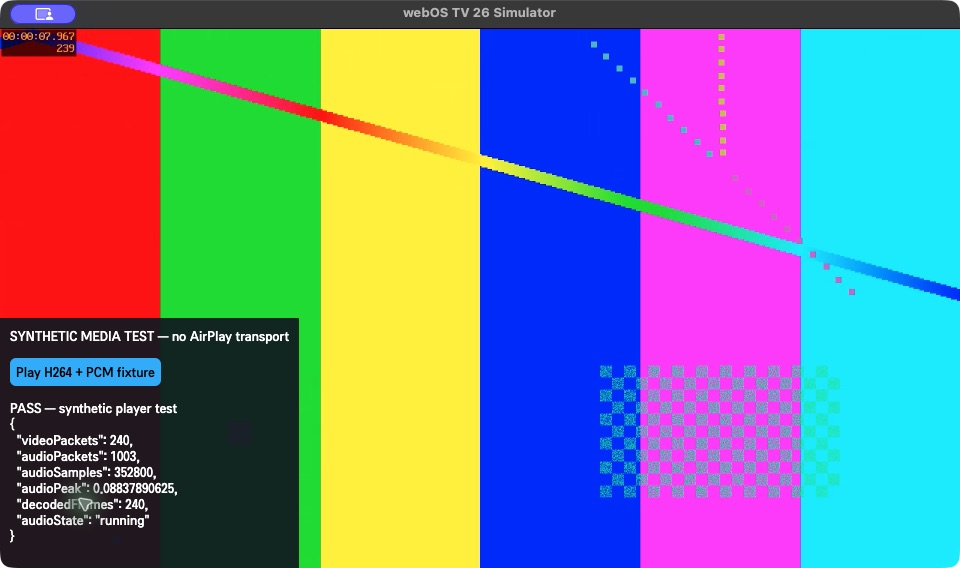
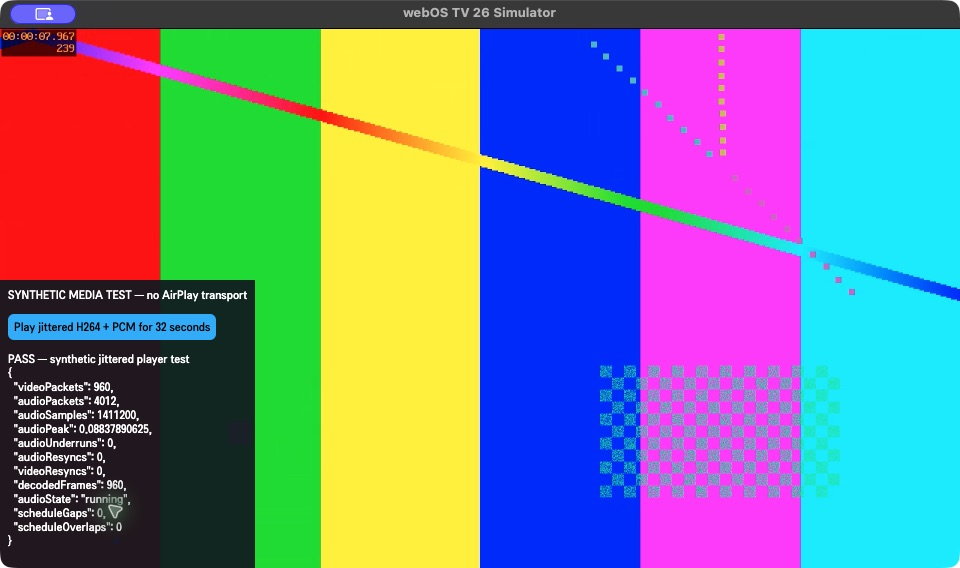
Stabilize webOS audio scheduling and live video recovery

Changed region(s): [[0.0, 0.4789, 0.3125, 1.0]]

diff --git a/tv-web/src/webos-media.js b/tv-web/src/webos-media.js
@@ -4,10 +4,11 @@ export class WebosMedia {
   constructor({video,scope=window,onEvent=()=>{},createMuxer=options=>new JMuxer(options)}){
     this.video=video;this.scope=scope;this.onEvent=onEvent;this.run=0;this.sources=new Set();this.audioQueue=[];this.stats={videoPackets:0,audioPackets:0,audioSamples:0,audioPeak:0};
     this.createMuxer=createMuxer;this.videoQueue=[];this.videoQueueBytes=0;this.mseReady=false;this.mediaEpoch=0;
-    this.activate=()=>{try{if(!this.audio)this.audio=new (scope.AudioContext||scope.webkitAudioContext)({sampleRate:44100});this.audio.resume().catch(()=>{});}catch{}};
+    this.activate=()=>{try{if(!this.audio)this.audio=new (scope.AudioContext||scope.webkitAudioContext)({sampleRate:44100});this.audio.resume().then(()=>this.drainAudio()).catch(()=>{});}catch{}};
     scope.addEventListener('pointerdown',this.activate);scope.addEventListener('keydown',this.activate);
     this.video.muted=true;this.video.autoplay=true;
     this.video.addEventListener('playing',()=>{if(!this.run)return;clearTimeout(this.videoStartupTimer);this.videoPlaying=true;this.onEvent({type:'video-start',runId:this.run});this.drainAudio();});
+    this.video.addEventListener('progress',()=>this.catchUpVideo());
     this.video.addEventListener('error',()=>this.fail('H.264 playback failed'));
   }
   async connect(url){
@@ -19,7 +20,7 @@ export class WebosMedia {
       socket.onclose=()=>{if(!opened)reject(new Error('Media connection cancelled'));if(this.socket===socket&&this.run)this.fail('Media service disconnected');};
     });
   }
-  start(run){this.reset();this.failed=false;this.run=run;this.stats={videoPackets:0,audioPackets:0,audioSamples:0,audioPeak:0};}
+  start(run){this.reset();this.failed=false;this.run=run;this.stats={videoPackets:0,audioPackets:0,audioSamples:0,audioPeak:0,audioUnderruns:0,audioResyncs:0,videoResyncs:0};}
   packet(data){
     if(!(data instanceof ArrayBuffer)||data.byteLength<32||data.byteLength>8*1024*1024+32)return;
     const view=new DataView(data),run=view.getUint32(4,true),pts=view.getFloat64(8,true);if(run!==this.run||!run||!Number.isFinite(pts))return;
@@ -30,7 +31,7 @@ export class WebosMedia {
   pushVideo(data,pts,fps){
     if(!this.muxer){
       const epoch=this.mediaEpoch,current=()=>this.run&&this.mediaEpoch===epoch;
-      this.videoFirstPts=pts;this.lastVideoPts=pts;
+      this.videoFirstPts=pts;this.lastVideoPts=pts;this.videoTimelineMs=0;
       // A display:none video can defer MediaSource startup on TV Chromium.
       // Keep the element laid out while waiting for the real playing event.
       this.video.style.display='block';
@@ -43,40 +44,69 @@ export class WebosMedia {
       },onError:()=>{if(current())this.fail('Media buffer failed');},onUnsupportedCodec:()=>{if(current())this.fail('H.264 is unavailable');}});}
       catch{this.fail('Media Source is unavailable');return;}
     }
-    const delta=pts-this.lastVideoPts;if(delta>3||delta<-.5){this.fail('Video timestamp discontinuity');return;}
-    const packet={video:data,duration:delta>0?Math.min(250,delta*1000):1000/(fps||30),isLastVideoFrameComplete:true};
+    const delta=pts-this.lastVideoPts;if(delta<-.5){this.fail('Video timestamp discontinuity');return;}
+    // Mirroring is variable-rate: a static screen can have seconds between
+    // frames. Preserve that time, including fractional milliseconds, instead
+    // of compressing the video clock until it diverges from the audio clock.
+    const endMs=Math.max(this.videoTimelineMs+1,Math.round((pts-this.videoFirstPts)*1000+1000/(fps||30)));
+    const packet={video:data,duration:endMs-this.videoTimelineMs,isLastVideoFrameComplete:true};this.videoTimelineMs=endMs;
     // JMuxer creates its SourceBuffer when it first sees SPS/PPS. Feeding before
     // sourceopen loses that one-time signal, leaving the video stuck forever.
     if(this.mseReady){try{this.muxer.feed(packet);}catch{this.fail('Media buffer failed');return;}}
     else{this.videoQueue.push(packet);this.videoQueueBytes+=data.length;if(this.videoQueue.length>120||this.videoQueueBytes>8*1024*1024){this.fail('Media Source startup timed out');return;}}
     this.lastVideoPts=pts;this.stats.videoPackets++;
-    if(this.video.buffered.length&&this.video.buffered.end(this.video.buffered.length-1)-this.video.currentTime>4){this.fail('Video player fell behind');}
+    this.catchUpVideo();
+  }
+  catchUpVideo(){
+    if(!this.run||!this.videoPlaying||this.video.paused||this.video.seeking||!this.video.buffered.length)return;
+    const range=this.video.buffered.length-1,end=this.video.buffered.end(range);
+    if(end-this.video.currentTime>1){
+      try{this.video.currentTime=Math.max(this.video.buffered.start(range),end-.2);this.stats.videoResyncs++;}
+      catch{this.fail('Video catch-up failed');}
+    }
   }
   pushAudio(data,pts){
     if(data.byteLength%4)return;this.stats.audioPackets++;this.stats.audioSamples+=data.byteLength/4;
     this.audioQueue.push({data,pts});while(this.audioQueue.length>256)this.audioQueue.shift();this.drainAudio();
   }
   drainAudio(){
+    clearTimeout(this.audioDrainTimer);
     if(!this.audio||this.audio.state!=='running')return;
     if(this.videoFirstPts!==undefined&&!this.videoPlaying)return;
     while(this.audioQueue.length){
+      // Limit scheduled output as well as the input queue. Leave room for
+      // bursty network delivery without growing latency or creating hundreds
+      // of already-scheduled sources that cannot be caught up.
+      if(this.audioNextTime>this.audio.currentTime+.5){this.audioDrainTimer=setTimeout(()=>this.drainAudio(),20);return;}
       const {data,pts}=this.audioQueue.shift();
-      if(this.audioFirstPts===undefined){this.audioFirstPts=pts;this.audioBase=this.audio.currentTime+.2;this.onEvent({type:'audio-start',runId:this.run});}
-      const when=this.videoPlaying?this.audio.currentTime+pts-this.videoFirstPts-this.video.currentTime+.04:this.audioBase+pts-this.audioFirstPts;
-      if(when<this.audio.currentTime-.1)continue;
-      if(when>this.audio.currentTime+3){this.fail('Audio timestamp discontinuity');return;}
+      if(this.audioFirstPts===undefined){this.audioFirstPts=pts;this.onEvent({type:'audio-start',runId:this.run});}
+      if(this.audioExpectedPts!==undefined&&Math.abs(pts-this.audioExpectedPts)>.5){
+        this.stopAudioSources();this.audioNextTime=undefined;this.stats.audioResyncs++;
+      }
+      if(this.audioNextTime===undefined||this.audioNextTime<this.audio.currentTime+.02){
+        if(this.audioNextTime!==undefined)this.stats.audioUnderruns++;
+        const offset=this.videoPlaying?pts-this.videoFirstPts-this.video.currentTime:0;
+        this.audioNextTime=this.audio.currentTime+.12+Math.max(0,Math.min(.25,offset));
+      }
+      const when=this.audioNextTime;
       const count=data.byteLength/4,view=new DataView(data.buffer,data.byteOffset,data.byteLength),buffer=this.audio.createBuffer(2,count,44100);
       for(let c=0;c<2;c++){const samples=buffer.getChannelData(c);for(let i=0;i<count;i++){const value=view.getInt16((i*2+c)*2,true)/32768;samples[i]=value;this.stats.audioPeak=Math.max(this.stats.audioPeak,Math.abs(value));}}
       const source=this.audio.createBufferSource();source.buffer=buffer;source.connect(this.audio.destination);
-      this.sources.add(source);source.onended=()=>{this.sources.delete(source);source.disconnect();};source.start(Math.max(this.audio.currentTime,when));
+      // Schedule consecutive PCM by sample count on one audio clock. Using
+      // video.currentTime for every 10 ms packet creates gaps/overlaps whenever
+      // the browser updates its video clock in steps or seeks to catch up.
+      this.audioNextTime=when+count/44100;this.audioExpectedPts=pts+count/44100;
+      this.sources.add(source);source.onended=()=>{this.sources.delete(source);source.disconnect();};source.start(when);
       if(this.sources.size>300){this.fail('Audio output fell behind');return;}
     }
   }
   fail(message){if(!this.run||this.failed)return;this.failed=true;this.onEvent({type:'error',message,runId:this.run});this.reset();}
+  stopAudioSources(){for(const source of this.sources){try{source.stop();source.disconnect();}catch{}}this.sources.clear();}
   reset(){
     ++this.mediaEpoch;
     clearTimeout(this.videoStartupTimer);
-    this.run=0;for(const source of this.sources){try{source.stop();}catch{}}this.sources.clear();this.audioQueue=[];
+    clearTimeout(this.audioDrainTimer);
+    this.run=0;this.stopAudioSources();this.audioQueue=[];this.audioNextTime=this.audioExpectedPts=undefined;
     if(this.muxer){const muxer=this.muxer;this.muxer=null;try{muxer.destroy();}catch{}}
     this.videoPlaying=false;this.videoFirstPts=this.audioFirstPts=undefined;
     this.mseReady=false;this.videoQueue=[];this.videoQueueBytes=0;

diff --git a/platforms/webos/README.md b/platforms/webos/README.md
@@ -2,7 +2,7 @@
 
 [معرفی فارسی و ساخت](../../README.md)
 
-Version **0.2.0** adds a portable UxPlay receiver core, a webOS Node JavaScript service, H264 browser playback and decoded PCM audio. The Teli interface retains Persian by default, English/mixed language modes, dark/light/solid themes and remote navigation. The core targets **webOS 22+ (Node 12+)**. The earlier UI-only target of webOS 6 does not apply to this receiver service.
+Version **0.2.1** adds a portable UxPlay receiver core, a webOS Node JavaScript service, H264 browser playback and decoded PCM audio. The Teli interface retains Persian by default, English/mixed language modes, dark/light/solid themes and remote navigation. The core targets **webOS 22+ (Node 12+)**. The earlier UI-only target of webOS 6 does not apply to this receiver service.
 
 **Not a store release or a verified LG TV receiver.** No LG hardware is available. The official webOS TV 26 Simulator 1.5.0 now runs both the web app and its actual Node/WASM service. The listener belongs to the Simulator process; the separate host harness is stopped.
 
@@ -10,7 +10,7 @@ The earlier `io.github.mehdieskandari.airplaytv.webos` service name failed in th
 
 The Simulator also reports the callee's service bus ID as the message sender. The service accepts its own bus identity as well as its app identity; unrelated identities remain rejected. Simulator results therefore do not prove caller isolation on a real TV.
 
-A separate, clearly labelled **host harness** remains available for debugging. It runs the exact packaged service on macOS and replaces only the development Luna transport. It is never copied into the TV IPK. The initial live Mac session delivered video and decoded audio through this harness; final live rendering is still being checked. Actual TV workers, sockets, multicast, performance and audio output remain unverified.
+A separate, clearly labelled **host harness** remains available for debugging. It runs the exact packaged service on macOS and replaces only the development Luna transport. It is never copied into the TV IPK. The initial live Mac session delivered video and decoded audio through this harness. A later iPhone session displayed live video through the actual Simulator service (538 decoded frames observed); the user heard audio but reported crackling. Version 0.2.1 fixes reproduced timing failures, but its live iPhone audio quality still needs another listening check. Actual TV workers, sockets, multicast, performance and audio output remain unverified.
 
 | Teli dark — official Simulator | Teli light — official Simulator |
 | --- | --- |
@@ -30,8 +30,8 @@ AirPlay sender
 - No Samsung native SDK and no C/C++ Node addon are included.
 - WASM pthread workers proxy POSIX socket operations to asynchronous Node `net`/`dgram` I/O. IPv4 TCP/UDP, multicast, partial TCP reads, bounded queues and shutdown/close handling are implemented. This is a receiver socket subset, not general POSIX networking.
 - Native readiness is emitted after listeners and discovery start. A queued Luna start call never marks the receiver ready. The interface enters video mode only after the HTML video element reports `playing`.
-- Encoded video waits for MediaSource `sourceopen` before being fed to JMuxer, preserving the first SPS/PPS packet. Audio waits for an unlocked AudioContext and uses the shared media timestamps.
-- AAC LC, AAC ELD and ALAC decoding use FFmpeg in WASM; PCM is delivered at stereo 44.1 kHz. AAC LC and ALAC have generated, non-silent decoder integration fixtures. A live Mac session also delivered decoded audio packets; speaker output remains unverified.
+- Encoded video waits for MediaSource `sourceopen` before being fed to JMuxer, preserving the first SPS/PPS packet. Audio waits for an unlocked AudioContext. Version 0.2.1 schedules contiguous PCM by sample count on one audio clock, with 120 ms of headroom, bounded scheduling and underrun/clock-jump recovery. Video preserves sparse-frame timestamps and catches up when buffered latency exceeds one second instead of closing the receiver.
+- AAC LC, AAC ELD and ALAC decoding use FFmpeg in WASM; PCM is delivered at stereo 44.1 kHz. AAC LC and ALAC have generated, non-silent decoder integration fixtures. Live iPhone audio was heard in the Simulator, with crackling reported before the timing fix. Physical TV speaker output remains unverified.
 - Loopback media has a random per-service capability token and one consumer. Only the app and the receiver service's own Luna bus identities may invoke receiver methods. Sender approval defaults on; remembered identities use verified pairing keys, not client-supplied names.
 - Queues and WebSocket backpressure are bounded. Page exit/subscription cancellation stops the receiver. The service is intended to follow the foreground app lifecycle.
 - State is private under `/media/internal/com.mehdiskan.airplaytv` on the TV. The host harness uses `~/Library/Caches/AirPlayTV-webOS/`.
@@ -44,7 +44,7 @@ OpenSSL 3.4.4 is fetched from its official source and checked against a fixed SH
 
 - App: `com.mehdiskan.airplaytv`
 - Service: `com.mehdiskan.airplaytv.receiver`
-- IPK: `platforms/webos/output/com.mehdiskan.airplaytv_0.2.0_all.ipk`
+- IPK: `platforms/webos/output/com.mehdiskan.airplaytv_0.2.1_all.ipk`
 - Payload: web app, JavaScript service, WASM, pthread worker, fonts/icons and dependency licenses
 - Excluded: host harness, simulator SDK, source maps and native `.node` addons
 
@@ -74,7 +74,7 @@ This uses the production WebosMedia class inside a separate, explicitly labelled
 node platforms/webos/scripts/media-selftest.mjs /path/to/fixtures
 ```
 
-Open the printed `build/media-test` directory in the Simulator and select **Play H264 + PCM fixture**. The observed result was 240 decoded/rendered video frames, 352800 scheduled stereo PCM samples, nonzero PCM peak and a running AudioContext. This confirms the player path, not live mirroring or TV speaker output. The app and its fixtures are excluded from the TV IPK. [Test evidence](tests/RESULTS.md).
+Open the printed `build/media-test` directory in the Simulator and select **Play jittered H264 + PCM for 32 seconds**. It repeats the eight-second fixtures four times with bursty 10–90 ms delivery. The observed result in 0.2.1 was 960 decoded/rendered video frames, 1411200 scheduled stereo PCM samples, nonzero PCM peak and a running AudioContext, with zero scheduled gaps/overlaps, underruns or clock resyncs. This confirms the player path, not live mirroring or TV speaker output. The app and its fixtures are excluded from the TV IPK. [Test evidence](tests/RESULTS.md).
 
 ## Test on an LG TV
 
@@ -83,7 +83,7 @@ Prepare a webOS 22+ TV through LG's Developer Mode app. With the official CLI in
 ```sh
 ./tv-web/node_modules/.bin/ares-setup-device
 ./tv-web/node_modules/.bin/ares-novacom --device lg-tv --getkey
-./tv-web/node_modules/.bin/ares-install --device lg-tv platforms/webos/output/com.mehdiskan.airplaytv_0.2.0_all.ipk
+./tv-web/node_modules/.bin/ares-install --device lg-tv platforms/webos/output/com.mehdiskan.airplaytv_0.2.1_all.ipk
 ./tv-web/node_modules/.bin/ares-launch --device lg-tv com.mehdiskan.airplaytv
 ```
 
@@ -94,7 +94,7 @@ Use the device name configured during setup. First inspect service startup, Node
 - The portable core on macOS opened real TCP/UDP sockets, announced discovery and returned an actual binary-plist RTSP `/info` response.
 - The real WASM decoder produced non-silent PCM from generated AAC LC and ALAC packets.
 - The official Simulator now runs the packaged receiver service, including WASM workers and actual TCP/UDP listening. The host harness is stopped.
-- A Mac Screen Mirroring session delivered real video and decoded audio packets through UxPlay into the earlier host harness. End-to-end live video and audible audio remain unverified.
+- An iPhone Screen Mirroring session displayed live video through the standalone Simulator service. The user heard crackling audio; post-fix listening and real TV output remain unverified.
 - JavaScript tests cover the receiver lifecycle, async cancellation, Luna event readiness, real TCP/UDP transport, queue limits, MediaSource startup ordering, language/theme preferences and LG Back/exit handling.
 - This receiver has not run in an LG TV's jailed service environment. Node version alone is not proof that its workers/WASM, networking, resource limits or Web Audio behavior will match the host.
 - Direct AirPlay URL/HLS playback is not implemented for LG; the shared Samsung AVPlay handler is not an LG playback backend. DRM, HEVC, subtitles and old AirTunes ANNOUNCE clients are not supported by this prototype. UI guide cards describe AirPlay workflows and are not a compatibility guarantee.

diff --git a/platforms/webos/tests/RESULTS.md b/platforms/webos/tests/RESULTS.md
@@ -4,14 +4,14 @@ This is an experimental development build, not a certified TV release.
 
 | Check | Observed result | Boundary |
 | --- | --- | --- |
-| JavaScript lifecycle, identity, transport and media startup tests | 26 passed | Unit/integration checks; not TV execution |
+| JavaScript lifecycle, identity, transport and media startup tests | 29 passed | Unit/integration checks; not TV execution |
 | Actual WASM receiver | Real TCP/UDP, discovery and RTSP `/info` binary plist (884 bytes) | macOS host smoke test; ephemeral listener |
 | Actual WASM AAC LC decoder | 7168 stereo PCM samples; peak 3196/32768 | Generated codec fixture |
 | Actual WASM ALAC decoder | 4096 stereo PCM samples; peak 2896/32768 | Generated codec fixture |
 | LG Simulator service | Luna info succeeds; coreBuilt true; Node 18.18.2; receiver listener owned by Simulator process | Official webOS TV 26 Simulator 1.5.0 on macOS ARM64, not TV Node/OS |
 | Teli dark/light UI | Both displayed in official Simulator | See the actual Simulator screenshots below |
-| H264/PCM player | 240 video frames decoded and displayed; 352800 stereo PCM samples scheduled; PCM peak 0.08837890625; AudioContext running | Separate synthetic test app using the production player; bypasses pairing, network and service decoder |
-| Live AirPlay input | Actual video and decoded audio packets reached the earlier host harness | Final live rendering/audio after the fix and inside the standalone Simulator service are not confirmed |
+| H264/PCM player, version 0.2.1 | 32-second jittered-input test: 960 video frames decoded/displayed; 1411200 stereo PCM samples scheduled; peak 0.08837890625; AudioContext running; zero schedule gaps, overlaps, underruns or clock resyncs | Separate synthetic test app using the production player; bypasses pairing, network and service decoder; not a listening test |
+| Live iPhone Screen Mirroring, version 0.2.0 | Live portrait image displayed through the actual Simulator service; 538 decoded frames observed; 963840 stereo PCM samples scheduled with peak 0.897430419921875; user heard audio and reported crackling | Session stopped with video backlog/audio timestamp errors. Version 0.2.1 fixes reproduced timing failures, but post-fix iPhone listening is pending |
 | TV IPK payload | App + service + WASM + worker + licenses; no test harness or native Node addon | Package inspection; not TV installation |
 | Physical LG TV | Not tested | No LG device available |
 
@@ -22,5 +22,7 @@ This is an experimental development build, not a certified TV release.
 The MediaSource startup race was reproduced and fixed: the first SPS/PPS packet now waits until `sourceopen`. A regression test verifies that readiness does not follow a queued start or a received packet, and that a real `playing` event precedes video mode. The synthetic test then displayed every frame of the generated eight-second H264 pattern. A separate regression test also reproduces late callbacks from a stopped player; session epochs now prevent those callbacks from feeding a new session.
 
 The initial long `io.github...webos` service ID failed even with LG's template, while short `com.*` template IDs and the current `com.mehdiskan.airplaytv` app/service worked. The exact SDK naming/parser restriction is not established. Its caller metadata also reports the service itself as the sender, so real TV caller isolation must be checked separately. The app and its own service identities are allowed; unrelated identities are rejected by tests.
+
+The reported crackling was investigated alongside actual `Video player fell behind` and `Audio timestamp discontinuity` logs. Three regression tests failed before the 0.2.1 fix: bursty delivery plus a stepped video clock produced PCM gaps/overlaps; late audio had no scheduling headroom; sparse screen updates compressed or rejected the video timeline. Audio now uses a contiguous sample-count clock with 120 ms headroom, bounded scheduling, underrun and clock-jump recovery. Video retains sparse-frame timing with cumulative millisecond rounding and catches up instead of stopping the session. All 29 tests passed, and the separate 32-second Simulator fixture test passed with no observed scheduling discontinuities. These findings do not establish that every source of the live crackling is resolved.
 
 The host harness and temporary probe apps/services were stopped/removed from the Simulator after testing. The normal Teli app was restored with its own service ready. Do not equate packet counts, synthetic playback or scheduled PCM with verified end-to-end mirroring or audible TV output.

diff --git a/README.md b/README.md
@@ -4,7 +4,7 @@
 
 نسخه آزمایشی ال جی با رابط تلی تیره و روشن، فارسی پیش فرض و کنترل با ریموت.
 
-**نسخه 0.2.0 هسته واقعی UxPlay را به WebAssembly و سرویس JavaScript ال جی منتقل می کند.** این نسخه هنوز برای انتشار در فروشگاه یا اعلام سازگاری با تلویزیون های ال جی آماده نیست. هدف فعلی هسته **webOS 22 و جدیدتر** است و تست روی دستگاه واقعی انجام نشده است.
+**نسخه 0.2.1 هسته واقعی UxPlay را به WebAssembly و سرویس JavaScript ال جی منتقل می کند.** این نسخه هنوز برای انتشار در فروشگاه یا اعلام سازگاری با تلویزیون های ال جی آماده نیست. هدف فعلی هسته **webOS 22 و جدیدتر** است و تست روی دستگاه واقعی انجام نشده است.
 
 | تلی دارک | تلی لایت |
 | --- | --- |
@@ -20,11 +20,13 @@
 | رابط داخل شبیه ساز رسمی LG webOS TV 26 نسخه 1.5.0 | اجرا شده |
 | هسته WASM، سوکت TCP و UDP، کشف شبکه و پاسخ واقعی RTSP | تست مستقل روی مک پاس شده |
 | تبدیل AAC LC و ALAC به PCM با دیکودر واقعی WASM | تست صدای غیرساکت پاس شده |
-| اتصال زنده Screen Mirroring مک به هسته آزمایشی | بسته های تصویر و صدای زنده دریافت شده |
-| پلیر در شبیه ساز با فایل ساختگی H264 و PCM | ۲۴۰ فریم نمایش داده شد؛ ۳۵۲۸۰۰ نمونه صدا به Web Audio رسید |
-| نمایش نهایی تصویر و خروجی صدای زنده AirPlay | هنوز تایید نشده؛ دریافت بسته به تنهایی اثبات پخش نیست |
+| اتصال زنده آیفون به سرویس خود شبیه ساز | تصویر دیده شد و ۵۳۸ فریم دیکود شد |
+| پلیر در شبیه ساز با فایل ساختگی H264 و PCM | تست ۳۲ ثانیه ای با ورود نامنظم بسته ها: ۹۶۰ فریم و ۱۴۱۱۲۰۰ نمونه صدا، بدون فاصله یا هم پوشانی در زمان بندی صدا |
+| صدای زنده آیفون | شنیده شد، اما کاربر خش خش گزارش کرد؛ بررسی دوباره پس از اصلاح 0.2.1 باقی است |
 | سرویس اختصاصی Luna، هسته WASM و سوکت دریافت داخل خود شبیه ساز | اجرا شده؛ ابزار میزبان خاموش است |
 | اجرای هسته روی خود تلویزیون ال جی | تایید نشده؛ تلویزیون در دسترس نیست |
+
+نسخه 0.2.1 زمان بندی صدا را بر اساس تعداد نمونه های PCM پیوسته می کند، برای تاخیر شبکه بافر دارد و به جای توقف گیرنده هنگام عقب افتادن ویدیو، پلیر را جلو می برد. تست های بازگشت خطا ابتدا روی نسخه قبلی شکست خوردند و پس از اصلاح پاس شدند. کیفیت شنیداری اتصال آیفون پس از این تغییر هنوز دوباره تایید نشده است.
 
 هسته اکنون از سرویس خود شبیه ساز ال جی اجرا می شود. یک ابزار میزبان جداگانه هم برای عیب یابی باقی مانده است؛ دریافت بسته های زنده مک ابتدا با آن بررسی شد. این ابزار در IPK قرار نمی گیرد. اجرای شبیه ساز، سازگاری با سخت افزار و محدودیت های خود تلویزیون را ثابت نمی کند.
 
@@ -50,7 +52,7 @@ python3 platforms/webos/tests/package.py
 خروجی توسعه:
 
 ```text
-platforms/webos/output/com.mehdiskan.airplaytv_0.2.0_all.ipk
+platforms/webos/output/com.mehdiskan.airplaytv_0.2.1_all.ipk
 ```
 
 تست core-smoke از یک پورت موقت آزاد استفاده می کند؛ پورت پیش فرض گیرنده برنامه 7002 است. [GitHub Actions این برنچ](https://github.com/MehdiEskandari/airplay-tv/actions?query=branch%3Acodex%2Fwebos-receiver) همین هسته، تست ها و بسته را می سازد.
